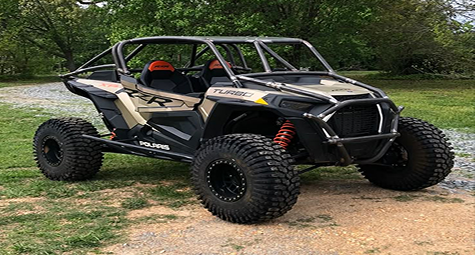
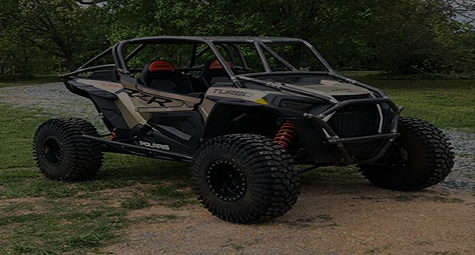
atv baru sebagian

diff --git a/public/style/css.css b/public/style/css.css
@@ -88,9 +88,10 @@
     .fasilitas-banner { background:#000; color:#fff; position:relative; overflow:hidden }
     .fasilitas-banner .banner-images { display:flex; gap:0 }
     .fasilitas-banner .banner-img { flex:1 1 33%; position:relative }
-    .fasilitas-banner .banner-img img { width:100%; height:360px; object-fit:cover; display:block }
+    .fasilitas-banner .banner-img img { width:100%; height:250px; object-fit:cover; display:block }
     .fasilitas-banner .banner-overlay { position:absolute; left:0; right:0; top:0; bottom:0; display:flex; align-items:center; justify-content:center; pointer-events:none }
-    .fasilitas-banner .banner-overlay h2 { font-size:4rem; letter-spacing:6px; color:#fff; text-align:center; background:rgba(0,0,0,0.35); padding:10px 40px; border-radius:6px }
+    .fasilitas-banner .banner-overlay h1 {font-family: 'Franklin Gothic Medium'; font-size:6rem; letter-spacing:6px; color:#fff; text-align:center; padding:10px 40px; border-radius:6px ;}
+    .fasilitas-banner .banner-overlay h2 {font-family: 'Franklin Gothic Medium'; font-size:4rem; letter-spacing:6px; color:#fff; text-align:center; padding:10px 40px; border-radius:6px ;}
 
     .feature-row { display:flex; justify-content:center; gap:0; margin-top:-40px; }
     .feature-box { flex:0 0 200px; background:#111; color:#fff; padding:28px 18px; text-align:center; display:flex; flex-direction:column; align-items:center; justify-content:center }

diff --git a/resources/views/Desa Wisata/Main/Fasilitas/ATV.blade.php b/resources/views/Desa Wisata/Main/Fasilitas/ATV.blade.php
@@ -1,63 +1,109 @@
 @extends('desa wisata.layout.master')
 
-@section('title', 'ATV')
+@section('title', 'Halaman Home')
 
 @section('content')
 
-<div class="fasilitas-banner">
+<!doctype html>
+<html lang="en">
+<head>
+    <meta charset="utf-8">
+    <meta name="viewport" content="width=device-width, initial-scale=1">
+    <title>Desa Wisata Kayu Aro</title>
+
+<body>
+ 
+    <nav class="navbar navbar-expand-lg navbar-light bg-white py-3">
+        <div class="container">
+            <div class="d-flex align-items-center gap-3">
+                <a class="home-icon" href="{{ route('home.index2') }}">
+                    <i class="bi bi-house-door-fill" style="font-size:1.25rem"></i> 
+                </a>
+                <div class="btn-group">
+                    <div class="btn-group">
+                        <button type="button" class="btn nav-pill dropdown-toggle px-4" data-bs-toggle="dropdown" aria-expanded="false">
+                            WISATA
+                        </button>
+                        <ul class="dropdown-menu">
+                            <li><a class="dropdown-item" href="{{ route('wisata.show','kebun-teh') }}">Kebun Teh</a></li>
+                            <li><a class="dropdown-item" href="{{ route('wisata.show','kebun-kayu-manis') }}">Kebun Kayu Manis</a></li>
+                            <li><a class="dropdown-item" href="{{ route('wisata.show','kebun-strawberry') }}">Kebun Strawberry</a></li>
+                            <li><a class="dropdown-item" href="{{ route('wisata.show','gunung-kerinci') }}">Gunung Kerinci</a></li>
+                            <li><a class="dropdown-item" href="{{ route('wisata.show','air-terjun') }}">Air Terjun</a></li>
+                            <li><a class="dropdown-item" href="{{ route('wisata.show','danau-kerinci') }}">Danau Kerinci</a></li>
+                        </ul>
+                    </div>
+                    <div class="btn-group">
+                            <button type="button" class="btn nav-pill dropdown-toggle px-4" data-bs-toggle="dropdown" aria-expanded="false">
+                                FASILITAS
+                            </button>
+                            <ul class="dropdown-menu">
+                                <li><a class="dropdown-item" href="{{ route('fasilitas.show', 'homestay') }}">Home Stay</a></li>
+                                <li><a class="dropdown-item" href="{{ route('fasilitas.show', 'atv') }}">ATV</a></li>
+                                <li><a class="dropdown-item" href="{{ route('fasilitas.show', 'makanan') }}">Makan Gratis</a></li>
+                            </ul>
+                        </div>
+                
+                </div>
+
+             <nav class="navbar navbar-expand-lg navbar-light bg-white py-3">
+               <div class="container">
+                   <div class="d-flex ms-auto align-items-center gap-2">
+                        <a class="bi bi-cart" style="font-size:1.5rem" href="{{ route('produk.showProduk', 'store')}}"></a> 
+                  </div>
+
+
+              </div>
+ 
+            </div>
+
+            <!-- <div class="d-flex ms-auto align-items-center gap-2">
+                <a class="bi bi-cart" style="font-size:1.5rem" href="{{ route('produk.showProduk', 'store')}}"></a> -->
+                <!-- <a href="{{ url('/login') }}" class="btn btn-outline-secondary">Login</a>
+                <a href="{{ route('register.create') }}" class="btn btn-dark">Register</a>
+            </div> -->
+        </div>
+    </nav>
+
+    <main class="container hero my-5">
+       <div class="fasilitas-banner">
 	<div class="banner-images">
 		<div class="banner-img">
-			<img src="{{ asset('images/atv1.jpg') }}" alt="ATV 1" onerror="this.src='https://via.placeholder.com/800x360?text=ATV+1'">
+			<img src="{{ asset('images/atv1.png') }}" alt="ATV 1" onerror="this.src='https://via.placeholder.com/800x360?text=ATV+1'">
 		</div>
 		<div class="banner-img">
-			<img src="{{ asset('images/atv2.jpg') }}" alt="ATV 2" onerror="this.src='https://via.placeholder.com/800x360?text=ATV+2'">
+			<img src="{{ asset('images/atv2.png') }}" alt="ATV 2" onerror="this.src='https://via.placeholder.com/800x360?text=ATV+2'">
 		</div>
 		<div class="banner-img">
-			<img src="{{ asset('images/atv3.jpg') }}" alt="ATV 3" onerror="this.src='https://via.placeholder.com/800x360?text=ATV+3'">
+			<img src="{{ asset('images/atv3.png') }}" alt="ATV 3" onerror="this.src='https://via.placeholder.com/800x360?text=ATV+3'">
 		</div>
 	</div>
 	<div class="banner-overlay">
-		<h2>ATV</h2>
+		<h1>ATV</h1>
 	</div>
 </div>
 
-<div class="feature-row">
-	<div class="feature-box">
-		<div class="feature-icon">⛽</div>
+<div class="feature-row z-1">
+	<div class="feature-box z-1">
+		<img src="{{ asset('images/gas.png') }}" alt="Reparasi Icon" width="75 px">
 		<div class="feature-title">BENSIN GRATIS</div>
 	</div>
-	<div class="feature-box alt">
-		<div class="feature-icon">🔧</div>
+	<div class="feature-box alt z-1">
+		<img src="{{ asset('images/obeng.png') }}" alt="Reparasi Icon" width="100 px">
 		<div class="feature-title">24 JAM REPARASI</div>
 	</div>
-	<div class="feature-box">
-		<div class="feature-icon">⏱</div>
+	<div class="feature-box z-1">
+		<img src="{{ asset('images/jam.png') }}" alt="Reparasi Icon" width="75 px">
 		<div class="feature-title">TANPA BATAS WAKTU</div>
 	</div>
 </div>
 
-<section class="atv-section">
-	<h3 class="section-title">SEWA & PANDUAN ATV</h3>
-	<p class="text-justify mx-auto" style="max-width:900px; margin-top:12px">Nikmati pengalaman off-road dengan ATV di kawasan Kayu Aro. Kami menyediakan kendaraan yang terawat, instruktur berpengalaman, serta paket sewa fleksibel untuk semua tingkat kemampuan.</p>
+<div class="banner-overlay my-5	">
+	<h2>LAYANAN KAMI</h2>
+</div>
 
-	<div class="atv-cards mt-4">
-		<div class="atv-card">
-			<img src="{{ asset('images/atv_small1.jpg') }}" alt="ATV" onerror="this.src='https://via.placeholder.com/260x160?text=ATV'">
-			<div class="card-body">
-				<h5>Paket 1 - 30 Menit</h5>
-				<p class="small">Cocok untuk pemula. Instruktur & helm disediakan.</p>
-			</div>
-		</div>
-		<div class="atv-card">
-			<img src="{{ asset('images/atv_small2.jpg') }}" alt="ATV" onerror="this.src='https://via.placeholder.com/260x160?text=ATV'">
-			<div class="card-body">
-				<h5>Paket 2 - 1 Jam</h5>
-				<p class="small">Rute lebih panjang, cocok untuk petualang.</p>
-			</div>
-		</div>
-	</div>
-
-	<div class="footer-text mt-5">Trademark™ 2025 - ALBATIN NOVRIYADI (70124000--), RIDRA PRATAMA KURNIAWAN (70124000--), TRI WAHYU NUGROHO (70124078)</div>
-</section>
-
-@endsection
+    </main>
+    <script src="https://cdn.jsdelivr.net/npm/bootstrap@5.3.2/dist/js/bootstrap.bundle.min.js"></script>
+    @endsection
+</body>
+</html>

diff --git a/resources/views/Desa Wisata/Main/Fasilitas/homestay.blade.php b/resources/views/Desa Wisata/Main/Fasilitas/homestay.blade.php
@@ -17,7 +17,7 @@
         <div class="container">
             <div class="d-flex align-items-center gap-3">
                 <a class="home-icon" href="{{ route('home.index2') }}">
-                    <i class="bi bi-house-door-fill" style="font-size:1.25rem"></i>
+                    <i class="bi bi-house-door-fill" style="font-size:1.25rem"></i> 
                 </a>
                 <div class="btn-group">
                     <div class="btn-group">
@@ -110,5 +110,3 @@
     @endsection
 </body>
 </html>
-
-

diff --git a/resources/views/Desa Wisata/index.blade.php b/resources/views/Desa Wisata/index.blade.php
@@ -15,6 +15,9 @@
  
     <nav class="navbar navbar-expand-lg navbar-light bg-white py-3">
         <div class="container">
+            <div>
+                <P class="text-danger" class="text-decoration-line-through">Silahkan Login Terlebih Dahulu Untuk Info Lebih Lanjut</P>
+            </div>
             <!-- <div class="d-flex align-items-center gap-3">
                 <a class="home-icon" href="{{ url('/') }}">
                     <i class="bi bi-house-door-fill" style="font-size:1.25rem"></i>
